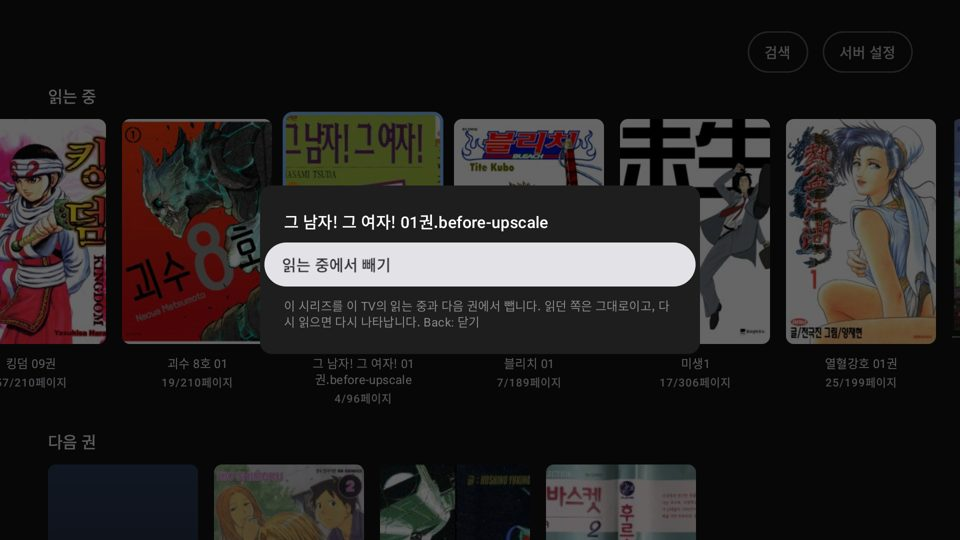
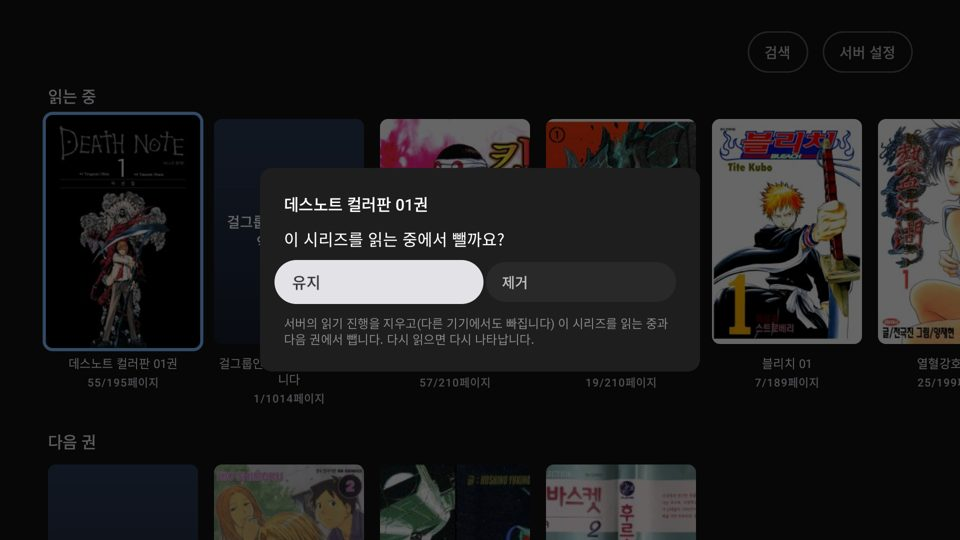
fix(home): 읽는 중에서 빼기 — 유지/제거로 묻고(유지에 포커스), 길게 누른 손 떼기가 버튼을 누르지 않게, 0.3.2 / b14

Changed region(s): [[0.0, 0.2074, 1.0, 0.7407]]

diff --git a/feature/home/src/main/java/com/komgatv/feature/home/LibraryActionsDialog.kt b/feature/home/src/main/java/com/komgatv/feature/home/LibraryActionsDialog.kt
@@ -4,6 +4,7 @@ import androidx.compose.foundation.background
 import androidx.compose.foundation.layout.Arrangement
 import androidx.compose.foundation.layout.Box
 import androidx.compose.foundation.layout.Column
+import androidx.compose.foundation.layout.Row
 import androidx.compose.foundation.layout.fillMaxSize
 import androidx.compose.foundation.layout.fillMaxWidth
 import androidx.compose.foundation.layout.padding
@@ -11,12 +12,19 @@ import androidx.compose.foundation.layout.width
 import androidx.compose.foundation.shape.RoundedCornerShape
 import androidx.compose.runtime.Composable
 import androidx.compose.runtime.LaunchedEffect
+import androidx.compose.runtime.getValue
+import androidx.compose.runtime.mutableStateOf
 import androidx.compose.runtime.remember
+import androidx.compose.runtime.setValue
 import androidx.compose.ui.Alignment
 import androidx.compose.ui.Modifier
+import androidx.compose.ui.composed
 import androidx.compose.ui.focus.FocusRequester
 import androidx.compose.ui.focus.focusRequester
 import androidx.compose.ui.graphics.Color
+import androidx.compose.ui.input.key.KeyEventType
+import androidx.compose.ui.input.key.onPreviewKeyEvent
+import androidx.compose.ui.input.key.type
 import androidx.compose.ui.res.stringResource
 import androidx.compose.ui.unit.dp
 import androidx.compose.ui.window.Dialog
@@ -44,6 +52,7 @@ internal fun LibraryActionsDialog(
     Dialog(onDismissRequest = onDismiss) {
         Box(
             modifier = Modifier
+                .ignoreHeldKey()
                 .width(440.dp)
                 .background(Color(0xFF1E1E1E), RoundedCornerShape(12.dp))
                 .padding(24.dp),
@@ -69,7 +78,8 @@ internal fun LibraryActionsDialog(
 }
 
 /**
- * "읽는 중"·"다음 권" 책 메뉴 (OK를 길게) — 이 시리즈를 두 줄에서 뺀다. Back으로 닫는다.
+ * "읽는 중"·"다음 권" 책 메뉴 (OK를 길게) — 이 시리즈를 두 줄에서 뺄지 묻는다.
+ * [유지]에 먼저 포커스(실수로 지우지 않게), [제거]를 눌러야 뺀다. Back도 유지.
  */
 @Composable
 internal fun ReadingActionsDialog(
@@ -83,22 +93,53 @@ internal fun ReadingActionsDialog(
     Dialog(onDismissRequest = onDismiss) {
         Box(
             modifier = Modifier
-                .width(440.dp)
+                .ignoreHeldKey()
+                .width(480.dp)
                 .background(Color(0xFF1E1E1E), RoundedCornerShape(12.dp))
                 .padding(24.dp),
         ) {
             Column(verticalArrangement = Arrangement.spacedBy(12.dp)) {
                 Text(text = book.cardTitle(), style = MaterialTheme.typography.titleMedium, color = Color.White)
-                Button(
-                    onClick = { onHide(); onDismiss() },
-                    modifier = Modifier.fillMaxWidth().focusRequester(firstFocus),
-                ) { Text(stringResource(R.string.reading_action_hide)) }
+                Text(
+                    text = stringResource(R.string.reading_action_question),
+                    style = MaterialTheme.typography.bodyLarge,
+                    color = Color.White,
+                )
+                Row(horizontalArrangement = Arrangement.spacedBy(12.dp)) {
+                    Button(
+                        onClick = onDismiss,
+                        modifier = Modifier.weight(1f).focusRequester(firstFocus),
+                    ) { Text(stringResource(R.string.reading_action_keep)) }
+                    Button(
+                        onClick = { onHide(); onDismiss() },
+                        modifier = Modifier.weight(1f),
+                    ) { Text(stringResource(R.string.reading_action_remove)) }
+                }
                 Text(
                     text = stringResource(R.string.reading_action_hint),
                     style = MaterialTheme.typography.bodySmall,
                     color = Color.Gray,
                 )
             }
+        }
+    }
+}
+
+/**
+ * 메뉴를 연 길게 누름의 손 떼기(그리고 누르고 있는 동안의 반복)를 버린다.
+ * 그대로 두면 메뉴가 열리자마자 포커스된 버튼이 눌린다. 메뉴 안에서 새로 누른 키부터 받는다.
+ */
+private fun Modifier.ignoreHeldKey(): Modifier = composed {
+    var armed by remember { mutableStateOf(false) }
+    onPreviewKeyEvent { event ->
+        when {
+            armed -> false
+            event.type == KeyEventType.KeyDown && event.nativeKeyEvent.repeatCount == 0 -> {
+                armed = true
+                false
+            }
+            // 메뉴를 연 누름의 반복·손 떼기 — 버튼에 보내지 않는다
+            else -> true
         }
     }
 }

diff --git a/docs/reports/home-hide.md b/docs/reports/home-hide.md
@@ -10,7 +10,8 @@
 - Komga가 표지 그림이 없는 책(이 EPUB 등)에 404를 준다. 회색 빈 칸 대신 제목을 적은 대체 표지(남색)를 보인다 (`PosterCard`).
 
 ## 읽는 중에서 빼기
-- 홈의 "읽는 중"·"다음 권" 책을 OK 길게 → **읽는 중에서 빼기**. 그 시리즈가 두 줄 모두에서 빠진다(다음 권도 안 보임).
+- 홈의 "읽는 중"·"다음 권" 책을 OK 길게 → "이 시리즈를 읽는 중에서 뺄까요?" **[유지] [제거]** (유지에 먼저 포커스). [제거]를 눌러야 뺀다.
+- 길게 누른 손을 뗄 때의 키가 메뉴 버튼을 눌러 버리던 문제(실기에서 길게 누르면 바로 지워짐)를 막았다 — 메뉴를 연 누름의 반복·손 떼기는 버린다(라이브러리 메뉴도 같이). 그 시리즈가 두 줄 모두에서 빠진다(다음 권도 안 보임).
 - 읽던 책이면 **서버의 읽기 진행도 지운다**(사용자 요청 — 다른 기기에서도 빠진다). "다음 권"은 서버에 지울 진행이 없어 이 TV에만 숨김을 저장(`HomePreferences`, 시리즈 ID → 뺀 시각).
 - 그 시리즈를 다시 읽으면(서버의 마지막 읽은 시각이 뺀 시각보다 뒤) 다시 나타나고 기록을 지운다. 다른 기기에서 읽어도 같다.
 - TV 시계가 서버보다 늦어도 방금 뺀 책이 "다시 읽음"으로 보이지 않게, 뺀 시각은 그 책의 읽은 시각보다 뒤로 잡는다.
